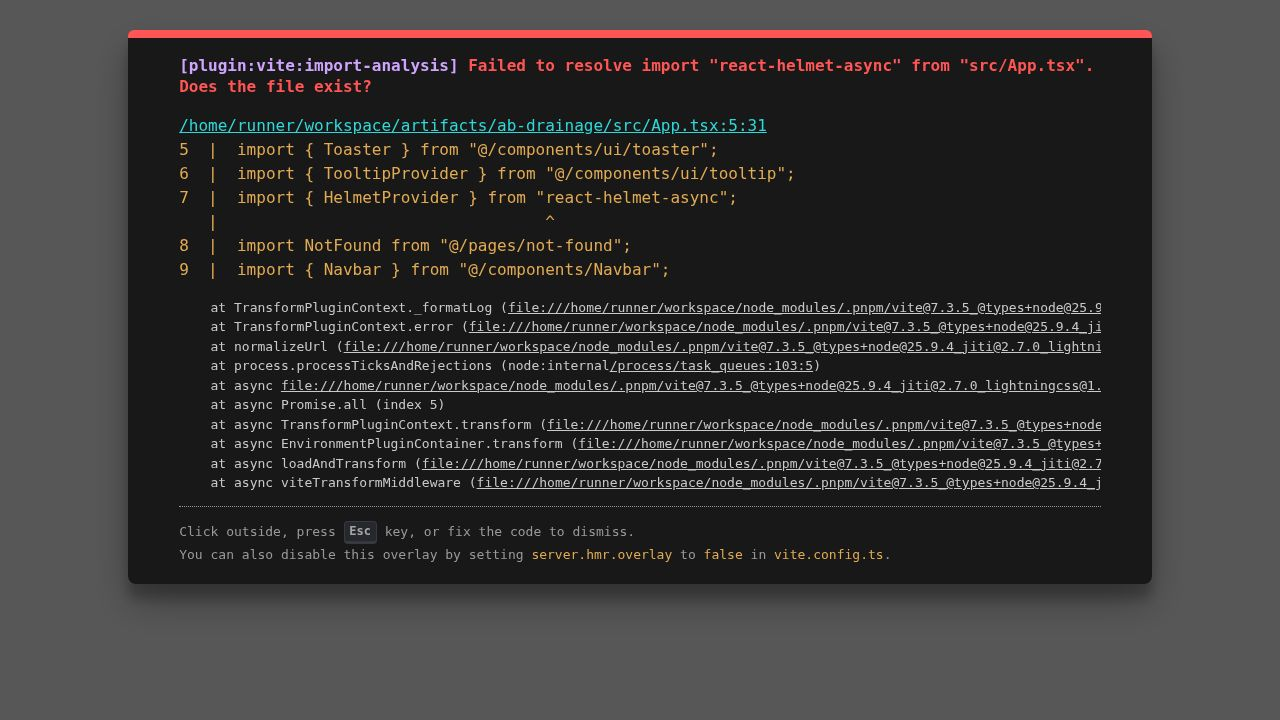
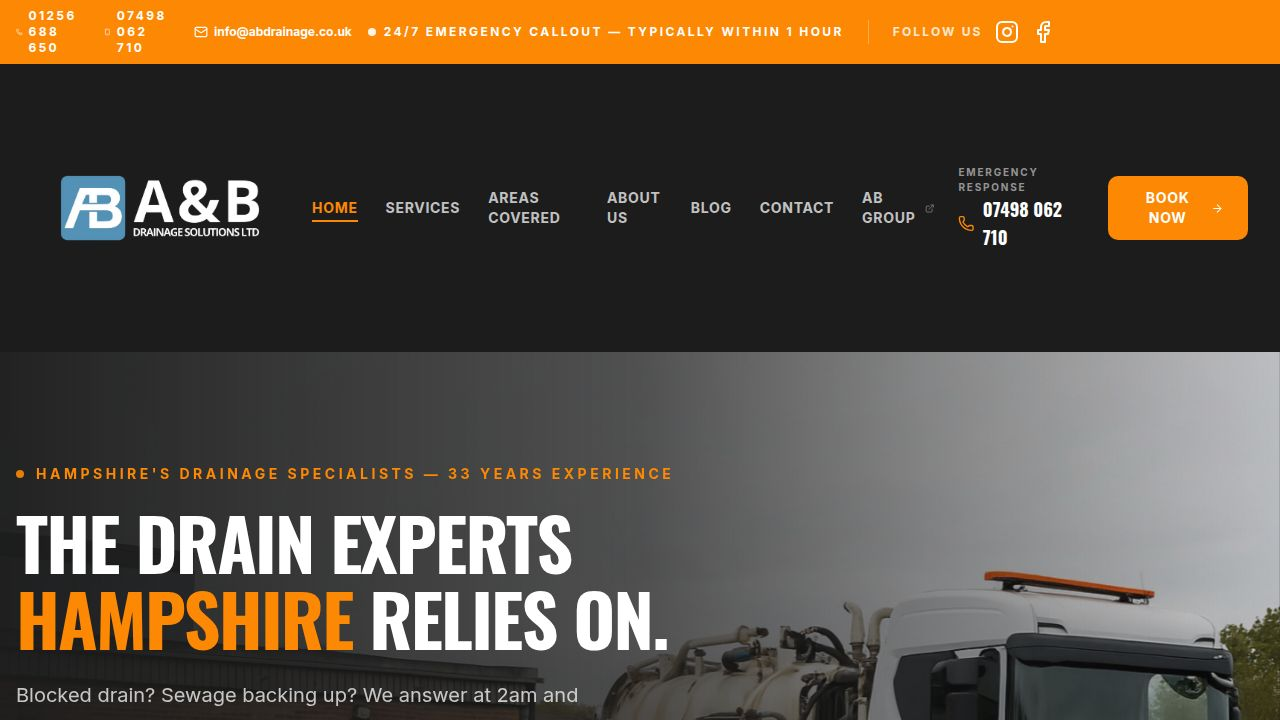
Make the book now popup available on all pages with animations
Introduce a global context for managing the book now modal, enabling it to be triggered from any page. Enhance the modal with new animations, larger size, and social media links.

Replit-Commit-Author: Agent
Replit-Commit-Session-Id: 94828390-7acc-4b80-9e6d-51a47824fa24
Replit-Commit-Checkpoint-Type: full_checkpoint
Replit-Commit-Event-Id: 9a8c4b90-6002-4767-ba78-8343c04825f4
Replit-Commit-Screenshot-Url: https://storage.googleapis.com/screenshot-production-us-central1/6156495c-34bf-4539-a3b1-19835ffc592c/94828390-7acc-4b80-9e6d-51a47824fa24/eBnAeQR
Replit-Helium-Checkpoint-Created: true

diff --git a/artifacts/ab-drainage/src/components/BookNowModal.tsx b/artifacts/ab-drainage/src/components/BookNowModal.tsx
@@ -1,23 +1,68 @@
-import { useEffect } from "react";
-import { motion, AnimatePresence } from "framer-motion";
+import { useEffect, useRef } from "react";
+import { motion, AnimatePresence, useReducedMotion } from "framer-motion";
 import { Phone, X } from "lucide-react";
+import { SocialLinks } from "./SocialLinks";
 
 interface BookNowModalProps {
   open: boolean;
   onClose: () => void;
 }
 
+const container = {
+  hidden: {},
+  show: {
+    transition: { staggerChildren: 0.07, delayChildren: 0.12 },
+  },
+};
+
+const item = {
+  hidden: { opacity: 0, y: 20 },
+  show: {
+    opacity: 1,
+    y: 0,
+    transition: { type: "spring" as const, stiffness: 260, damping: 22 },
+  },
+};
+
 export const BookNowModal = ({ open, onClose }: BookNowModalProps) => {
+  const reduced = useReducedMotion();
+  const dialogRef = useRef<HTMLDivElement>(null);
+  const closeBtnRef = useRef<HTMLButtonElement>(null);
+
   useEffect(() => {
     if (!open) return;
+
+    const previouslyFocused = document.activeElement as HTMLElement | null;
+    closeBtnRef.current?.focus();
+
     const onKey = (e: KeyboardEvent) => {
-      if (e.key === "Escape") onClose();
+      if (e.key === "Escape") {
+        onClose();
+        return;
+      }
+      if (e.key === "Tab" && dialogRef.current) {
+        const focusable = dialogRef.current.querySelectorAll<HTMLElement>(
+          'a[href], button:not([disabled]), [tabindex]:not([tabindex="-1"])',
+        );
+        if (focusable.length === 0) return;
+        const first = focusable[0];
+        const last = focusable[focusable.length - 1];
+        if (e.shiftKey && document.activeElement === first) {
+          e.preventDefault();
+          last.focus();
+        } else if (!e.shiftKey && document.activeElement === last) {
+          e.preventDefault();
+          first.focus();
+        }
+      }
     };
+
     document.addEventListener("keydown", onKey);
     document.body.style.overflow = "hidden";
     return () => {
       document.removeEventListener("keydown", onKey);
       document.body.style.overflow = "";
+      previouslyFocused?.focus?.();
     };
   }, [open, onClose]);
 
@@ -33,63 +78,111 @@ export const BookNowModal = ({ open, onClose }: BookNowModalProps) => {
           className="fixed inset-0 z-[100] flex items-center justify-center bg-black/80 backdrop-blur-sm p-4"
           aria-modal="true"
           role="dialog"
+          aria-label="Book a drainage callout"
         >
           <motion.div
-            initial={{ scale: 0.55, opacity: 0, y: 40 }}
-            animate={{ scale: 1, opacity: 1, y: 0 }}
-            exit={{ scale: 0.55, opacity: 0, y: 40 }}
-            transition={{ type: "spring", stiffness: 240, damping: 20 }}
+            ref={dialogRef}
+            initial={reduced ? { opacity: 0 } : { scale: 0.5, opacity: 0, y: 60, rotate: -2 }}
+            animate={reduced ? { opacity: 1 } : { scale: 1, opacity: 1, y: 0, rotate: 0 }}
+            exit={reduced ? { opacity: 0 } : { scale: 0.5, opacity: 0, y: 60 }}
+            transition={reduced ? { duration: 0.2 } : { type: "spring", stiffness: 220, damping: 20 }}
             onClick={(e) => e.stopPropagation()}
-            className="relative w-full max-w-lg sm:aspect-square max-h-[92vh] bg-accent text-white flex flex-col items-center justify-center text-center px-8 py-12 shadow-2xl shadow-black/60 overflow-hidden"
+            className="relative w-full max-w-2xl sm:aspect-square max-h-[94vh] bg-accent text-white flex flex-col items-center justify-center text-center px-8 sm:px-14 py-14 shadow-2xl shadow-black/60 overflow-y-auto rounded-2xl"
           >
-            {/* Decorative corner accents */}
-            <div className="pointer-events-none absolute -top-16 -right-16 w-48 h-48 rounded-full bg-white/10" />
-            <div className="pointer-events-none absolute -bottom-20 -left-20 w-56 h-56 rounded-full bg-black/10" />
-
-            <button
-              onClick={onClose}
-              aria-label="Close"
-              className="absolute top-4 right-4 text-white/80 hover:text-white transition-colors z-10"
-            >
-              <X size={28} />
-            </button>
-
-            {/* Pulsing phone icon */}
-            <div className="relative flex items-center justify-center mb-8">
-              <motion.span
-                className="absolute inline-flex h-20 w-20 rounded-full bg-white/30"
-                animate={{ scale: [1, 1.8], opacity: [0.6, 0] }}
-                transition={{ repeat: Infinity, duration: 1.8, ease: "easeOut" }}
+            {/* Animated decorative blobs (clipped to rounded corners) */}
+            <div className="pointer-events-none absolute inset-0 overflow-hidden rounded-2xl" aria-hidden="true">
+              <motion.div
+                className="absolute -top-16 -right-16 w-60 h-60 rounded-full bg-white/10"
+                animate={reduced ? undefined : { scale: [1, 1.18, 1], x: [0, 12, 0], y: [0, 10, 0] }}
+                transition={{ repeat: Infinity, duration: 8, ease: "easeInOut" }}
               />
-              <span className="relative flex items-center justify-center h-20 w-20 rounded-full bg-white text-accent">
-                <Phone size={34} />
-              </span>
+              <motion.div
+                className="absolute -bottom-24 -left-24 w-72 h-72 rounded-full bg-black/10"
+                animate={reduced ? undefined : { scale: [1, 1.22, 1], x: [0, -14, 0] }}
+                transition={{ repeat: Infinity, duration: 10, ease: "easeInOut" }}
+              />
             </div>
 
-            <p className="text-xs font-bold uppercase tracking-[0.3em] text-white/80 mb-3">
-              Need a Drainage Expert?
-            </p>
-            <h2 className="text-3xl md:text-4xl font-display font-bold uppercase leading-tight mb-2">
-              Call Us Now
-            </h2>
-            <p className="text-sm text-white/85 max-w-xs mb-8">
-              24/7 emergency callout — we typically arrive within the hour.
-            </p>
-
-            <a
-              href="tel:01256688650"
-              className="group flex items-center gap-3 bg-white text-accent px-8 py-5 font-display font-bold text-lg md:text-xl uppercase tracking-wide shadow-lg hover:bg-background hover:text-white transition-colors"
+            <button
+              ref={closeBtnRef}
+              onClick={onClose}
+              aria-label="Close"
+              className="absolute top-4 right-4 text-white/80 hover:text-white hover:rotate-90 transition-all duration-300 z-10"
             >
-              <Phone size={22} className="shrink-0" />
-              Call 01256 688 650 Now!
-            </a>
+              <X size={30} />
+            </button>
 
-            <p className="mt-6 text-xs uppercase tracking-[0.2em] text-white/70">
-              Or mobile / emergency:{" "}
-              <a href="tel:07498062710" className="font-bold text-white hover:underline">
-                07498 062 710
-              </a>
-            </p>
+            <motion.div
+              variants={reduced ? undefined : container}
+              initial={reduced ? false : "hidden"}
+              animate={reduced ? false : "show"}
+              className="relative z-[1] flex flex-col items-center"
+            >
+              {/* Pulsing phone icon */}
+              <motion.div variants={reduced ? undefined : item} className="relative flex items-center justify-center mb-8">
+                <motion.span
+                  className="absolute inline-flex h-24 w-24 rounded-full bg-white/30"
+                  animate={reduced ? undefined : { scale: [1, 1.9], opacity: [0.6, 0] }}
+                  transition={{ repeat: Infinity, duration: 1.8, ease: "easeOut" }}
+                />
+                <motion.span
+                  className="relative flex items-center justify-center h-24 w-24 rounded-full bg-white text-accent"
+                  animate={reduced ? undefined : { rotate: [0, -12, 12, -12, 0] }}
+                  transition={{ repeat: Infinity, repeatDelay: 2.2, duration: 0.9, ease: "easeInOut" }}
+                >
+                  <Phone size={40} />
+                </motion.span>
+              </motion.div>
+
+              <motion.p
+                variants={reduced ? undefined : item}
+                className="text-xs sm:text-sm font-bold uppercase tracking-[0.3em] text-white/80 mb-3"
+              >
+                Need a Drainage Expert?
+              </motion.p>
+              <motion.h2
+                variants={reduced ? undefined : item}
+                className="text-4xl md:text-5xl font-display font-bold uppercase leading-tight mb-3"
+              >
+                Call Us Now
+              </motion.h2>
+              <motion.p
+                variants={reduced ? undefined : item}
+                className="text-sm sm:text-base text-white/85 max-w-sm mb-8"
+              >
+                24/7 emergency callout — we typically arrive within the hour.
+              </motion.p>
+
+              <motion.a
+                variants={reduced ? undefined : item}
+                whileHover={reduced ? undefined : { scale: 1.04 }}
+                whileTap={reduced ? undefined : { scale: 0.97 }}
+                href="tel:01256688650"
+                className="flex items-center gap-3 bg-white text-accent px-8 sm:px-10 py-5 font-display font-bold text-lg md:text-2xl uppercase tracking-wide shadow-lg rounded-md hover:bg-background hover:text-white transition-colors"
+              >
+                <Phone size={24} className="shrink-0" />
+                Call 01256 688 650 Now!
+              </motion.a>
+
+              <motion.p
+                variants={reduced ? undefined : item}
+                className="mt-6 text-xs sm:text-sm uppercase tracking-[0.2em] text-white/70"
+              >
+                Or mobile / emergency:{" "}
+                <a href="tel:07498062710" className="font-bold text-white hover:underline">
+                  07498 062 710
+                </a>
+              </motion.p>
+
+              {/* Social links */}
+              <motion.div variants={reduced ? undefined : item} className="mt-8 flex flex-col items-center gap-3">
+                <span className="text-[11px] font-bold uppercase tracking-[0.3em] text-white/70">Follow Us</span>
+                <SocialLinks
+                  iconSize={22}
+                  itemClassName="w-12 h-12 rounded-full border border-white/40 bg-white/10 flex items-center justify-center hover:bg-white hover:text-accent hover:-translate-y-1 hover:scale-110"
+                />
+              </motion.div>
+            </motion.div>
           </motion.div>
         </motion.div>
       )}

diff --git a/artifacts/ab-drainage/src/contexts/BookNowContext.tsx b/artifacts/ab-drainage/src/contexts/BookNowContext.tsx
@@ -1,0 +1,28 @@
+import { createContext, useContext, useState, useCallback, type ReactNode } from "react";
+import { BookNowModal } from "@/components/BookNowModal";
+
+interface BookNowContextValue {
+  openBookNow: () => void;
+  closeBookNow: () => void;
+}
+
+const BookNowContext = createContext<BookNowContextValue | null>(null);
+
+export function BookNowProvider({ children }: { children: ReactNode }) {
+  const [open, setOpen] = useState(false);
+  const openBookNow = useCallback(() => setOpen(true), []);
+  const closeBookNow = useCallback(() => setOpen(false), []);
+
+  return (
+    <BookNowContext.Provider value={{ openBookNow, closeBookNow }}>
+      {children}
+      <BookNowModal open={open} onClose={closeBookNow} />
+    </BookNowContext.Provider>
+  );
+}
+
+export function useBookNow() {
+  const ctx = useContext(BookNowContext);
+  if (!ctx) throw new Error("useBookNow must be used within a BookNowProvider");
+  return ctx;
+}

diff --git a/artifacts/ab-drainage/src/pages/Services.tsx b/artifacts/ab-drainage/src/pages/Services.tsx
@@ -2,6 +2,7 @@ import { Link } from "wouter";
 import { Phone, ArrowRight, Check, ShieldCheck } from "lucide-react";
 import { SEO } from "@/components/SEO";
 import { motion } from "framer-motion";
+import { useBookNow } from "@/contexts/BookNowContext";
 
 import heroImg from "@assets/site_files_1/AB Drainage background_edited.jpg";
 import work1 from "@assets/site_files_1/369541839_240515012286429_2194496784194718742_n.jpg";
@@ -73,6 +74,7 @@ const services = [
 ];
 
 export default function Services() {
+  const { openBookNow } = useBookNow();
   return (
     <>
       <SEO
@@ -127,8 +129,14 @@ export default function Services() {
               </h2>
             </div>
             <div className="flex flex-col gap-3">
-              <a href="tel:01256688650" className="bg-accent hover:bg-accent/90 text-white px-8 py-4 font-bold uppercase tracking-wider flex items-center justify-center gap-2 transition-all">
-                <Phone size={18} /> 01256 688 650
+              <button
+                onClick={openBookNow}
+                className="bg-accent hover:bg-accent/90 text-white px-8 py-4 font-bold uppercase tracking-wider flex items-center justify-center gap-2 transition-all"
+              >
+                Book Now <ArrowRight size={18} />
+              </button>
+              <a href="tel:01256688650" className="bg-white/10 hover:bg-white/20 border border-white/20 text-white px-8 py-4 font-bold uppercase tracking-wider flex items-center justify-center gap-2 transition-all text-sm">
+                <Phone size={16} /> 01256 688 650
               </a>
               <Link href="/contact" className="bg-transparent border border-white/20 hover:border-white/50 text-white px-8 py-4 font-bold uppercase tracking-wider flex items-center justify-center gap-2 transition-all text-sm">
                 Send a Message

diff --git a/artifacts/ab-drainage/src/components/Navbar.tsx b/artifacts/ab-drainage/src/components/Navbar.tsx
@@ -3,14 +3,14 @@ import { Phone, Smartphone, Mail, Menu, X, ArrowRight, ExternalLink } from "luci
 import { useState, useEffect } from "react";
 import { motion, AnimatePresence } from "framer-motion";
 import logoMain from "@assets/site_files_1/AB Drainage logo.png";
-import { BookNowModal } from "./BookNowModal";
 import { SocialLinks } from "./SocialLinks";
+import { useBookNow } from "@/contexts/BookNowContext";
 
 export const Navbar = () => {
   const [location] = useLocation();
   const [isScrolled, setIsScrolled] = useState(false);
   const [mobileMenuOpen, setMobileMenuOpen] = useState(false);
-  const [bookNowOpen, setBookNowOpen] = useState(false);
+  const { openBookNow } = useBookNow();
 
   useEffect(() => {
     const handleScroll = () => setIsScrolled(window.scrollY > 20);
@@ -133,7 +133,7 @@ export const Navbar = () => {
                 </a>
               </div>
               <button
-                onClick={() => setBookNowOpen(true)}
+                onClick={openBookNow}
                 className="bg-accent hover:bg-accent/90 text-white px-6 py-3 text-sm font-bold uppercase tracking-wider flex items-center gap-2 transition-all"
               >
                 Book Now <ArrowRight size={15} />
@@ -246,8 +246,6 @@ export const Navbar = () => {
           )}
         </AnimatePresence>
       </header>
-
-      <BookNowModal open={bookNowOpen} onClose={() => setBookNowOpen(false)} />
     </>
   );
 };

diff --git a/artifacts/ab-drainage/src/App.tsx b/artifacts/ab-drainage/src/App.tsx
@@ -5,6 +5,7 @@ import { QueryClient, QueryClientProvider } from "@tanstack/react-query";
 import { Toaster } from "@/components/ui/toaster";
 import { TooltipProvider } from "@/components/ui/tooltip";
 import { HelmetProvider } from "react-helmet-async";
+import { BookNowProvider } from "@/contexts/BookNowContext";
 import NotFound from "@/pages/not-found";
 
 import { Navbar } from "@/components/Navbar";
@@ -63,7 +64,9 @@ function App() {
       <QueryClientProvider client={queryClient}>
         <TooltipProvider>
           <WouterRouter base={import.meta.env.BASE_URL.replace(/\/$/, "")}>
-            <Router />
+            <BookNowProvider>
+              <Router />
+            </BookNowProvider>
           </WouterRouter>
           <Toaster />
         </TooltipProvider>

diff --git a/.agents/memory/ab-drainage-booknow.md b/.agents/memory/ab-drainage-booknow.md
@@ -1,0 +1,11 @@
+---
+name: ab-drainage BookNow modal
+description: How the global "Book Now" call-us popup is wired and triggered.
+---
+The "Book Now" popup is a single global instance.
+
+**Rule:** There is exactly ONE `<BookNowModal>`, rendered inside `BookNowProvider` (`src/contexts/BookNowContext.tsx`), which wraps the router in `App.tsx`. To open it from anywhere, call `const { openBookNow } = useBookNow()` and wire it to a button. Do NOT render extra `<BookNowModal>` instances or add per-component open state.
+
+**Why:** Originally the modal lived in Navbar with local state, so page content (e.g. the Services CTA) had no way to trigger it. Centralizing to context lets any page open the same modal.
+
+**How to apply:** New "Book Now" buttons just call `openBookNow()`. The modal already includes social links, reduced-motion gating, and a focus trap — extend that one component rather than cloning it.

diff --git a/.agents/memory/MEMORY.md b/.agents/memory/MEMORY.md
@@ -1,1 +1,2 @@
 - [ab-drainage screenshots](ab-drainage-screenshots.md) — Home hero is min-h-[92vh]; vh scales with capture so screenshots can't reach below-fold content.
+- [ab-drainage BookNow modal](ab-drainage-booknow.md) — single global BookNowModal via BookNowContext; trigger from any page with useBookNow().openBookNow(), don't add per-page modal instances.